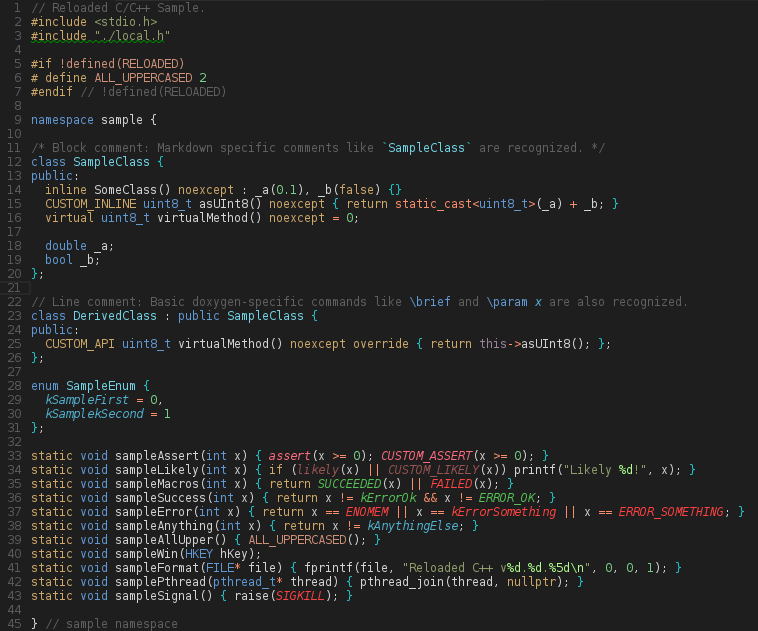
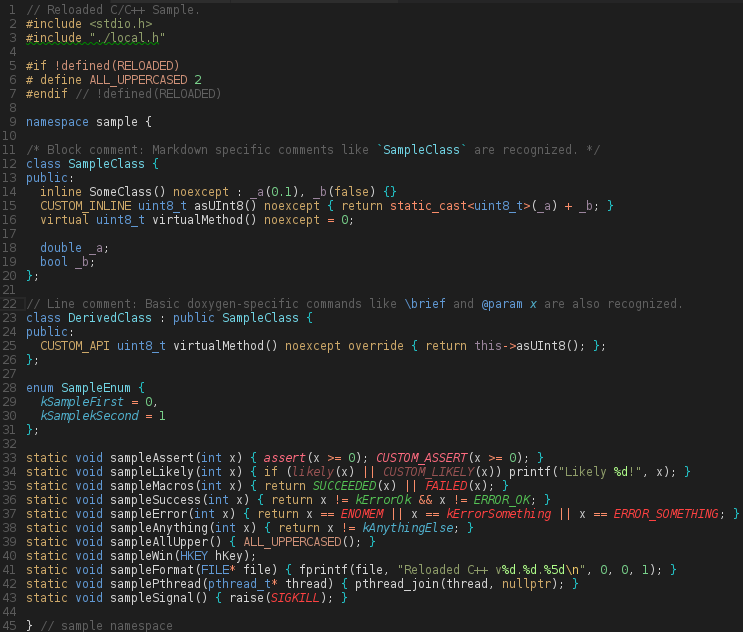
Update v0.0.5

diff --git a/samples/sample.cpp b/samples/sample.cpp
@@ -19,7 +19,7 @@ public:
   bool _b;
 };
 
-// Line comment: Basic doxygen-specific commands like \brief and \param x are also recognized. 
+// Line comment: Basic doxygen-specific commands like \brief and @param x are also recognized. 
 class DerivedClass : public SampleClass {
 public:
   CUSTOM_API uint8_t virtualMethod() noexcept override { return this->asUInt8(); };

diff --git a/README.md b/README.md
@@ -1,7 +1,7 @@
 ## Reloaded themes
 
-A collection of themes (only dark at the moment) designed to use extended styles provided by C/C++ Reloaded extension.
+A collection of themes (only dark at the moment) designed to use extended styles provided by ![https://marketplace.visualstudio.com/items?itemName=reloadedextensions.reloaded-cpp](Reloaded C/C++) extension.
 
 ![C++ Sample](./samples/sample.cpp.png)
 
-NOTE: This is a beta-theme, it's still adjusted from time to time to make it better. It's planned to have more color variations in the future, however, before the 'Reloaded C/C++' extension is stabilized it will provide only the dark theme.
+NOTE: This theme should be considered BETA as it's still work-in-progress. It's planned to provide also light version of this theme after the 'Reloaded C/C++' extension stabilizes.
